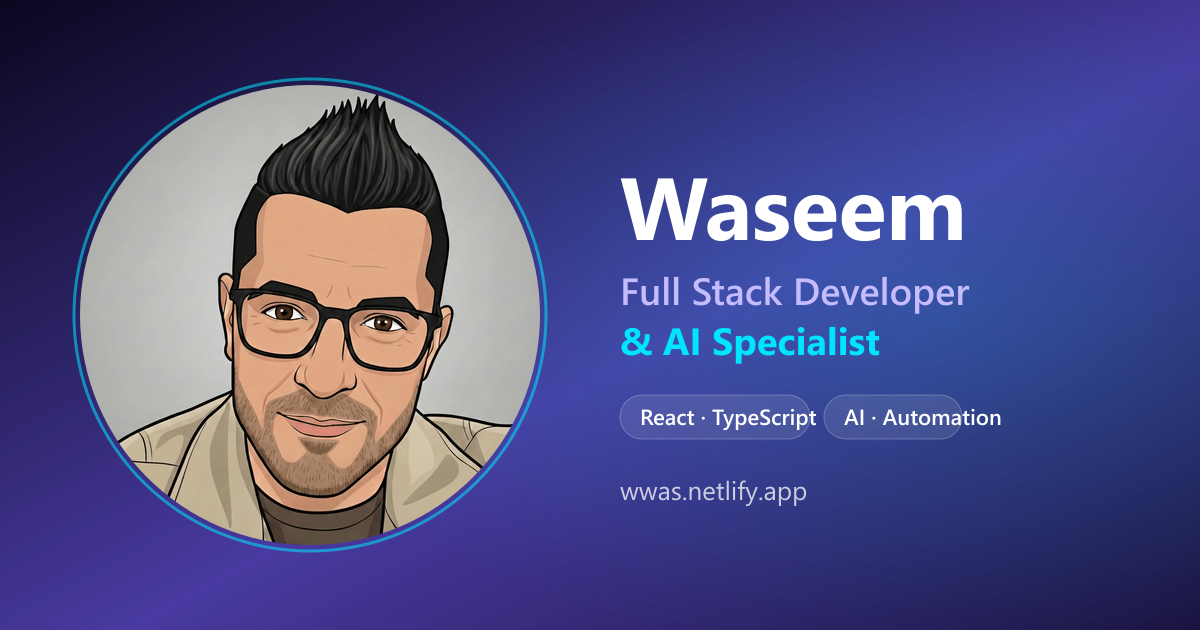
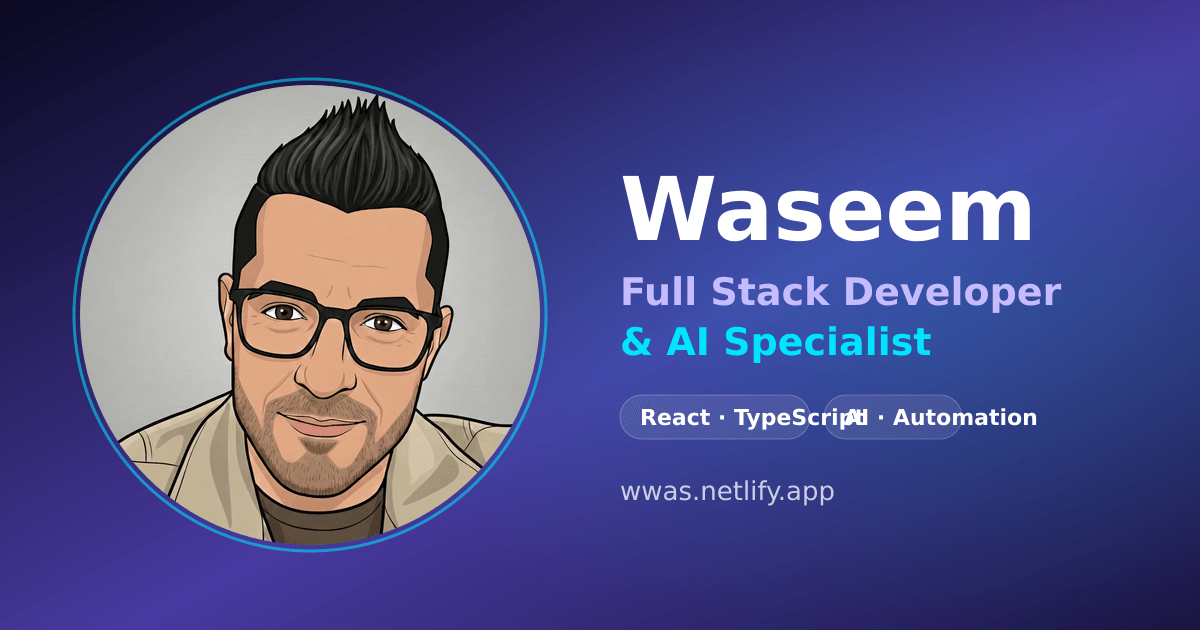
chore: a11y/contrast polish, readable mobile text, smaller OG image (#12)
- A11y/contrast: bump `text-slate-400` to `text-slate-500/600` (with
  `dark:text-slate-400` fallbacks) on light-mode surfaces in
  ContactForm, AccessibilityToolbar, AboutTimeline stat bars, FAQ CTA,
  ProjectWizard step counter. These were failing WCAG AA on white.
- Readability: bump mobile-only `text-[10px]` to `text-[11px]` across
  Contact, FAQ, Process, ProjectWizard, AboutTimeline, AccessibilityToolbar,
  and Projects flip-hint badge. Below ~11px is hard to read on phones.
- Tap targets: SocialHub action buttons (Like / Follow Me) bumped from
  `py-1 sm:py-1.5` to `py-1.5 sm:py-2` to hit comfortable touch sizes.
- Perf: regenerate `public/og-image.png` using sharp's palette mode
  (`palette: true, quality: 90, effort: 10`). 473 KB → 170 KB (-64%).

diff --git a/components/Contact.tsx b/components/Contact.tsx
@@ -30,7 +30,7 @@ const Contact: React.FC = () => {
               whileInView={{ opacity: 1, y: 0 }}
               viewport={{ once: true }}
               transition={prefersReducedMotion ? { duration: 0 } : undefined}
-              className="inline-flex items-center gap-2 px-3 py-1 sm:px-3 sm:py-1.5 rounded-full bg-green-50 dark:bg-green-900/20 border border-green-100 dark:border-green-900/30 text-green-600 dark:text-green-400 text-[10px] sm:text-xs font-bold uppercase tracking-wider mb-6 sm:mb-8 w-fit"
+              className="inline-flex items-center gap-2 px-3 py-1 sm:px-3 sm:py-1.5 rounded-full bg-green-50 dark:bg-green-900/20 border border-green-100 dark:border-green-900/30 text-green-600 dark:text-green-400 text-[11px] sm:text-xs font-bold uppercase tracking-wider mb-6 sm:mb-8 w-fit"
             >
               <span className="relative flex h-2 w-2">
                 {!prefersReducedMotion && <span className="animate-ping absolute inline-flex h-full w-full rounded-full bg-green-400 opacity-75"></span>}
@@ -71,7 +71,7 @@ const Contact: React.FC = () => {
                 <div className="w-10 h-10 sm:w-12 sm:h-12 rounded-full bg-white dark:bg-slate-800 border border-slate-100 dark:border-slate-700 flex items-center justify-center text-slate-900 dark:text-white group-hover:bg-brand-purple group-hover:text-white transition-colors mb-3 sm:mb-4 shadow-sm">
                   <Mail size={16} className="sm:w-5 sm:h-5" />
                 </div>
-                <p className="text-[10px] sm:text-xs text-slate-500 font-bold uppercase tracking-wider mb-1">{t('contact_email_btn')}</p>
+                <p className="text-[11px] sm:text-xs text-slate-500 font-bold uppercase tracking-wider mb-1">{t('contact_email_btn')}</p>
                 <p className="font-bold text-slate-900 dark:text-white text-sm sm:text-base md:text-lg group-hover:text-brand-purple transition-colors break-all">{CONTACT.email}</p>
               </a>
 
@@ -80,7 +80,7 @@ const Contact: React.FC = () => {
                 <div className="w-10 h-10 sm:w-12 sm:h-12 rounded-full bg-white dark:bg-green-900/30 border border-green-100 dark:border-green-800 flex items-center justify-center text-green-600 dark:text-green-400 group-hover:bg-green-600 group-hover:text-white transition-colors mb-3 sm:mb-4 shadow-sm">
                   <MessageSquare size={16} className="sm:w-5 sm:h-5" />
                 </div>
-                <p className="text-[10px] sm:text-xs text-green-600/80 dark:text-green-400/80 font-bold uppercase tracking-wider mb-1">{t('contact_whatsapp_btn')}</p>
+                <p className="text-[11px] sm:text-xs text-green-600/80 dark:text-green-400/80 font-bold uppercase tracking-wider mb-1">{t('contact_whatsapp_btn')}</p>
                 <p className="font-bold text-slate-900 dark:text-white text-sm sm:text-base md:text-lg group-hover:text-green-700 dark:group-hover:text-green-400 transition-colors" dir="ltr">{CONTACT.whatsappDisplay}</p>
               </a>
             </motion.div>

diff --git a/components/AboutTimeline.tsx b/components/AboutTimeline.tsx
@@ -199,9 +199,9 @@ const AboutTimeline: React.FC = () => {
 
                                     {/* Stat 1: Logic */}
                                     <div>
-                                        <div className="flex justify-between text-[10px] md:text-xs font-bold mb-1">
+                                        <div className="flex justify-between text-[11px] md:text-xs font-bold mb-1">
                                             <span className="flex items-center gap-1"><Brain className="w-2.5 h-2.5 md:w-3 md:h-3" /> {t('about_stat_1')}</span>
-                                            <span className="text-slate-400">100%</span>
+                                            <span className="text-slate-600 dark:text-slate-400">100%</span>
                                         </div>
                                         <div className="h-1.5 md:h-2 bg-slate-100 dark:bg-slate-800 rounded-full overflow-hidden">
                                             <motion.div
@@ -215,9 +215,9 @@ const AboutTimeline: React.FC = () => {
 
                                     {/* Stat 2: Creativity */}
                                     <div>
-                                        <div className="flex justify-between text-[10px] md:text-xs font-bold mb-1">
+                                        <div className="flex justify-between text-[11px] md:text-xs font-bold mb-1">
                                             <span className="flex items-center gap-1"><Zap className="w-2.5 h-2.5 md:w-3 md:h-3" /> {t('about_stat_2')}</span>
-                                            <span className="text-slate-400">95%</span>
+                                            <span className="text-slate-600 dark:text-slate-400">95%</span>
                                         </div>
                                         <div className="h-1.5 md:h-2 bg-slate-100 dark:bg-slate-800 rounded-full overflow-hidden">
                                             <motion.div
@@ -231,9 +231,9 @@ const AboutTimeline: React.FC = () => {
 
                                     {/* Stat 3: AI Integration */}
                                     <div>
-                                        <div className="flex justify-between text-[10px] md:text-xs font-bold mb-1">
+                                        <div className="flex justify-between text-[11px] md:text-xs font-bold mb-1">
                                             <span className="flex items-center gap-1"><Cpu className="w-2.5 h-2.5 md:w-3 md:h-3" /> {t('about_stat_3')}</span>
-                                            <span className="text-slate-400">100%</span>
+                                            <span className="text-slate-600 dark:text-slate-400">100%</span>
                                         </div>
                                         <div className="h-1.5 md:h-2 bg-slate-100 dark:bg-slate-800 rounded-full overflow-hidden">
                                             <motion.div

diff --git a/components/SocialHub.tsx b/components/SocialHub.tsx
@@ -50,7 +50,7 @@ const SocialHub: React.FC = () => {
                                             <h3 className="font-bold text-base sm:text-lg text-slate-900 dark:text-white">Waseem Dev</h3>
                                             <p className="text-[11px] sm:text-xs text-slate-500 dark:text-slate-400">Full Stack & AI</p>
                                         </div>
-                                        <button className="flex items-center gap-1.5 sm:gap-2 bg-[#1877F2] text-white px-2.5 sm:px-3 py-1 sm:py-1.5 rounded-md text-[11px] sm:text-sm font-medium hover:bg-blue-700 transition-colors whitespace-nowrap">
+                                        <button className="flex items-center gap-1.5 sm:gap-2 bg-[#1877F2] text-white px-2.5 sm:px-3 py-1.5 sm:py-2 rounded-md text-[11px] sm:text-sm font-medium hover:bg-blue-700 transition-colors whitespace-nowrap">
                                             <ThumbsUp size={12} className="sm:w-3.5 sm:h-3.5" /> <span className="hidden sm:inline">Like</span>
                                         </button>
                                     </div>
@@ -84,7 +84,7 @@ const SocialHub: React.FC = () => {
                                                 <p className="text-[11px] sm:text-xs opacity-90">Developer Life</p>
                                             </div>
                                         </div>
-                                        <button className="bg-white dark:bg-slate-800 text-slate-900 dark:text-white px-3 sm:px-4 py-1 sm:py-1.5 rounded-lg text-[11px] sm:text-sm font-bold hover:bg-slate-100 dark:hover:bg-slate-700 transition-colors whitespace-nowrap">
+                                        <button className="bg-white dark:bg-slate-800 text-slate-900 dark:text-white px-3 sm:px-4 py-1.5 sm:py-2 rounded-lg text-[11px] sm:text-sm font-bold hover:bg-slate-100 dark:hover:bg-slate-700 transition-colors whitespace-nowrap">
                                             {t('followMe')}
                                         </button>
                                     </div>
@@ -129,7 +129,7 @@ const SocialHub: React.FC = () => {
                                                 <p className="text-[11px] sm:text-xs text-slate-400">Tech & Automation</p>
                                             </div>
                                         </div>
-                                        <button className="bg-[#FE2C55] text-white px-3 sm:px-4 py-1 sm:py-1.5 rounded-md text-[11px] sm:text-sm font-bold hover:bg-opacity-90 transition-opacity whitespace-nowrap">
+                                        <button className="bg-[#FE2C55] text-white px-3 sm:px-4 py-1.5 sm:py-2 rounded-md text-[11px] sm:text-sm font-bold hover:bg-opacity-90 transition-opacity whitespace-nowrap">
                                             {t('followMe')}
                                         </button>
                                     </div>

diff --git a/components/AccessibilityToolbar.tsx b/components/AccessibilityToolbar.tsx
@@ -243,7 +243,7 @@ const AccessibilityToolbar: React.FC = () => {
               />
               <span className="text-lg font-bold">A</span>
             </div>
-            <div className="flex justify-between text-xs text-slate-400 px-1">
+            <div className="flex justify-between text-xs text-slate-500 dark:text-slate-400 px-1">
               <span>100%</span>
               <span>125%</span>
               <span>150%</span>
@@ -291,7 +291,7 @@ const AccessibilityToolbar: React.FC = () => {
             ].map((feature) => (
               <label key={feature.key} className="flex items-center justify-between cursor-pointer group p-2 hover:bg-slate-50 rounded-lg">
                 <div className="flex items-center gap-3 text-slate-700">
-                  <feature.icon size={18} className="text-slate-400 group-hover:text-brand-purple transition-colors" />
+                  <feature.icon size={18} className="text-slate-500 dark:text-slate-400 group-hover:text-brand-purple transition-colors" />
                   <span className="font-medium text-sm">{feature.label}</span>
                 </div>
                 <div className={`w-5 h-5 border-2 rounded flex items-center justify-center transition-colors ${state[feature.key as keyof A11yState] ? 'bg-brand-purple border-brand-purple' : 'border-slate-300'}`}>
@@ -325,7 +325,7 @@ const AccessibilityToolbar: React.FC = () => {
 
         {/* Footer */}
         <div className="p-3 bg-slate-100 dark:bg-slate-800 border-t border-slate-200 dark:border-slate-700 text-center">
-          <p className="text-[10px] text-slate-500 font-medium">Settings persist across sessions</p>
+          <p className="text-[11px] text-slate-500 dark:text-slate-400 font-medium">Settings persist across sessions</p>
         </div>
       </div>
     </div>

diff --git a/components/FAQ.tsx b/components/FAQ.tsx
@@ -115,7 +115,7 @@ const FAQ: React.FC = () => {
                                         <MessageCircle size={16} className="sm:w-5 sm:h-5" />
                                     </div>
                                     <div className="text-left rtl:text-right">
-                                        <span className="block text-[10px] sm:text-xs text-slate-500 uppercase font-bold tracking-wide">{t('faq_cta_unsure')}</span>
+                                        <span className="block text-[11px] sm:text-xs text-slate-500 dark:text-slate-400 uppercase font-bold tracking-wide">{t('faq_cta_unsure')}</span>
                                         <span className="block text-base sm:text-lg">{t('faq_cta_ask')}</span>
                                     </div>
                                     <ArrowRight className="ml-2 rtl:mr-2 rtl:ml-0 rtl:rotate-180 text-slate-400 group-hover:text-brand-purple group-hover:translate-x-1 rtl:group-hover:-translate-x-1 transition-all" />

diff --git a/components/Process.tsx b/components/Process.tsx
@@ -167,7 +167,7 @@ const Process: React.FC = () => {
 
               {/* Content Card */}
               <div className="pt-1 sm:pt-2 pb-6 sm:pb-8 flex-1">
-                <span className={`text-[10px] sm:text-xs font-bold uppercase tracking-wider mb-1.5 sm:mb-2 block ${step.color}`}>{t('process_step_prefix')} 0{step.id}</span>
+                <span className={`text-[11px] sm:text-xs font-bold uppercase tracking-wider mb-1.5 sm:mb-2 block ${step.color}`}>{t('process_step_prefix')} 0{step.id}</span>
                 <h3 className="text-base sm:text-lg md:text-xl font-bold text-slate-900 dark:text-white mb-2 sm:mb-3">{step.title}</h3>
                 <div className="text-xs sm:text-sm text-slate-600 dark:text-slate-400 leading-relaxed border-l-2 border-slate-200 dark:border-slate-800 pl-3 sm:pl-4 whitespace-pre-line">
                   {step.desc}

diff --git a/components/Projects.tsx b/components/Projects.tsx
@@ -180,7 +180,7 @@ const Projects: React.FC = () => {
                     />
 
                     {/* Mobile Hint - Visible on Mobile & Tablet (hidden on large desktops) */}
-                    <div className="lg:hidden absolute top-4 right-4 z-20 flex items-center gap-2 bg-black/70 backdrop-blur-sm text-white text-[10px] font-bold px-3 py-1.5 rounded-full border border-white/20 animate-pulse shadow-lg">
+                    <div className="lg:hidden absolute top-4 right-4 z-20 flex items-center gap-2 bg-black/70 backdrop-blur-sm text-white text-[11px] font-bold px-3 py-1.5 rounded-full border border-white/20 animate-pulse shadow-lg">
                       <Hand size={12} className="text-brand-gold" />
                       <span>{t('projects_hint')}</span>
                     </div>

diff --git a/components/ProjectWizard.tsx b/components/ProjectWizard.tsx
@@ -191,7 +191,7 @@ ${selections.details}
                             <ArrowLeft size={18} className="sm:w-5 sm:h-5" />
                         </button>
                     ) : <div></div>}
-                    <span className="text-[10px] sm:text-xs font-bold uppercase tracking-widest text-slate-300 dark:text-slate-600">
+                    <span className="text-[11px] sm:text-xs font-bold uppercase tracking-widest text-slate-500 dark:text-slate-400">
                         {t('wizard_step_count').replace('{current}', (step + 1).toString()).replace('{total}', (steps.length + 1).toString())}
                     </span>
                 </div>

diff --git a/components/ContactForm.tsx b/components/ContactForm.tsx
@@ -294,7 +294,7 @@ ${formData.message}
                 <label htmlFor="message" className="text-sm font-bold text-slate-700 flex items-center gap-2">
                     {t('messageLabel')} <span className="text-red-500">*</span>
                 </label>
-                <span className={`text-xs ${formData.message.length >= 10 ? 'text-green-600' : 'text-slate-400'}`}>
+                <span className={`text-xs ${formData.message.length >= 10 ? 'text-green-600' : 'text-slate-500'}`}>
                     {formData.message.length} / 10 {t('minChars')}
                 </span>
             </div>
